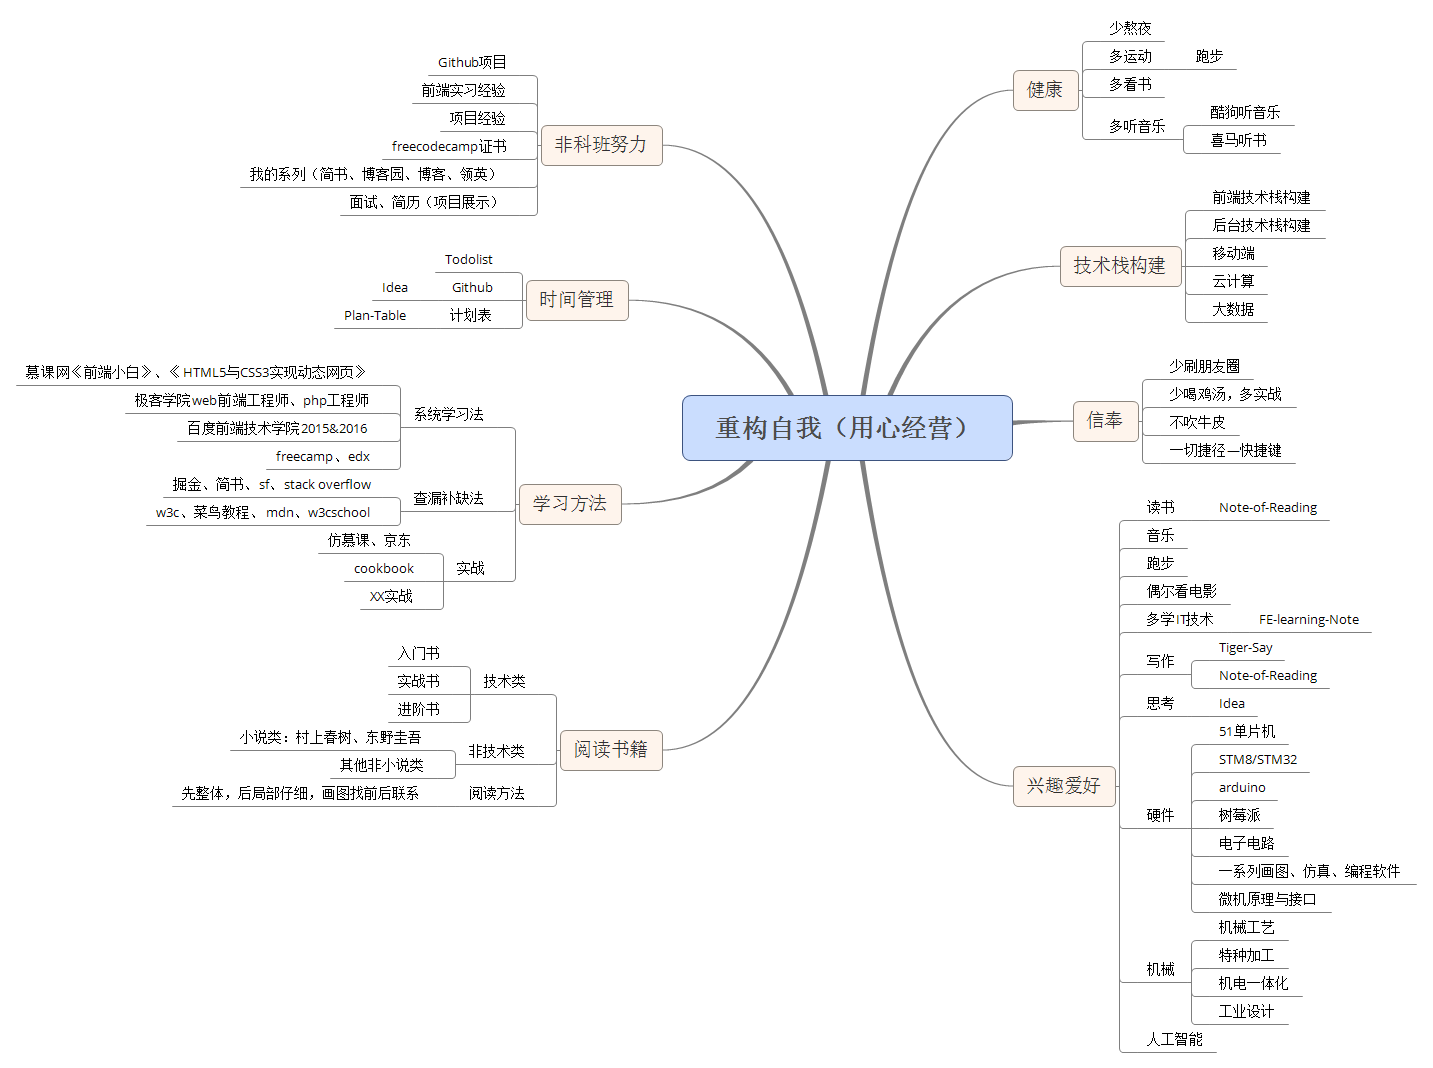
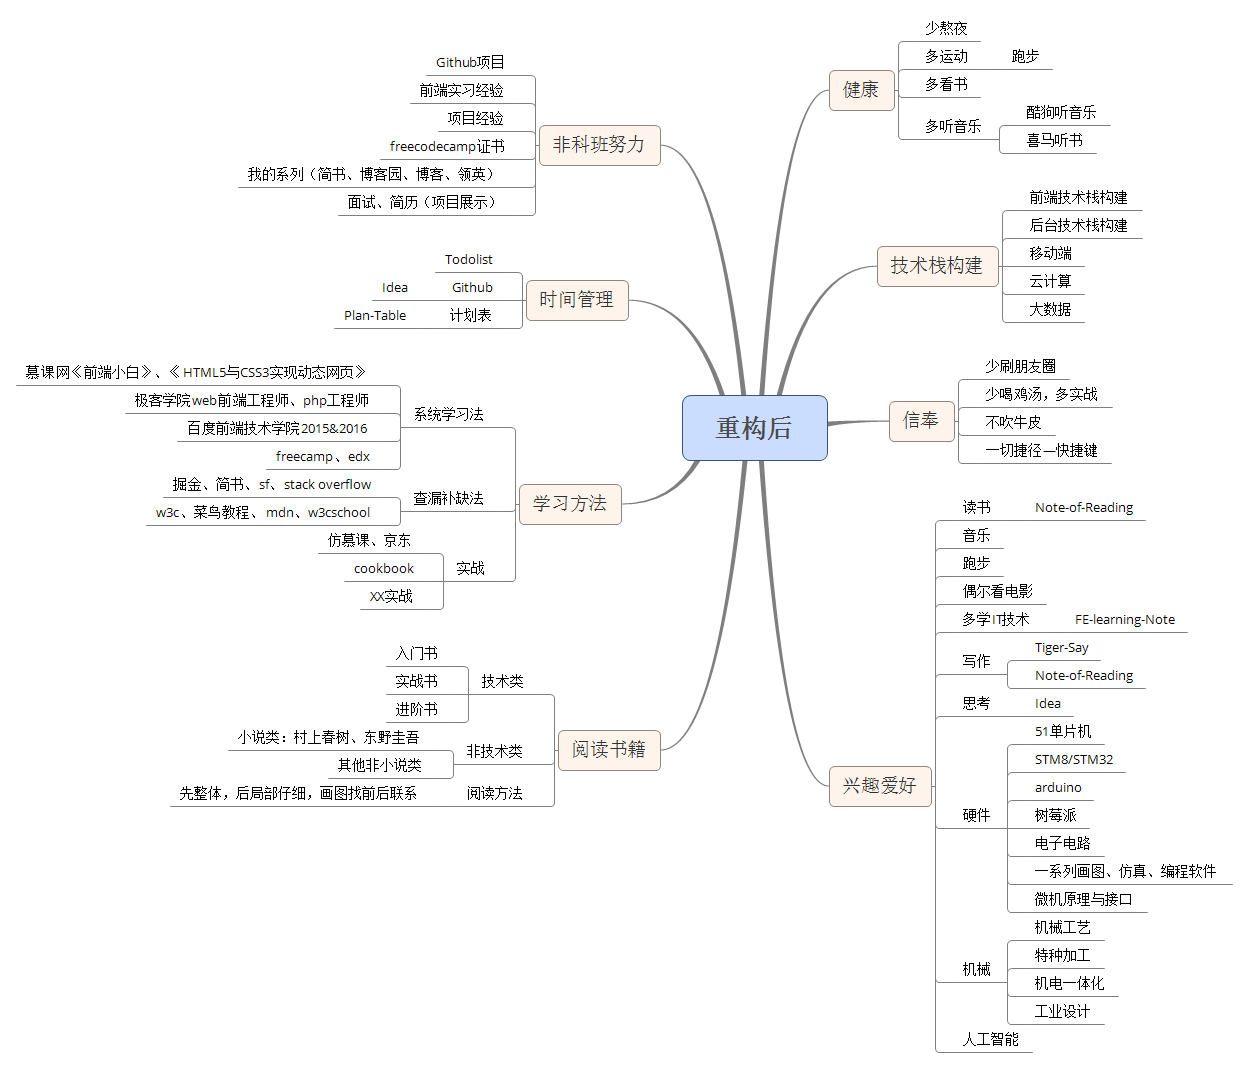
Site updated: 2017-09-21 14:12:38

diff --git a/2017/09/21/重构自我，用心经营/index.html b/2017/09/21/重构自我，用心经营/index.html
@@ -8,20 +8,20 @@
   <link rel="dns-prefetch" href="http://www.jomsou.cn">
   <title>重构自我，用心经营 | Jomsou&#39;s Blog</title>
   <meta name="viewport" content="width=device-width, initial-scale=1, maximum-scale=1">
-  <meta name="description" content="秋风起兮，枯叶缓缓落，咯吱一声又一声，静静地躺在树根处。等到快春天的时候，树就会长出新的枝叶。而这引起了我的思考，难道这不是在重构吗？是的，在我的眼里，万物都要依据一定的条件，进行重构。而我需要的是重构自我，用心经营。  重构 前面已提为什么要重构自我，不想赘述，下面是重构前的对比。">
+  <meta name="description" content="秋风起兮，枯叶缓缓落，咯吱一声又一声，静静地躺在树根处。等到快春天的时候，树就会长出新的枝叶。而这引起了我的思考，难道这不是在重构吗？是的，在我的眼里，万物都要依据一定的条件，进行重构。而我需要的是重构自我，用心经营。  重构 前面已提为什么要重构自我，不想赘述，下面是重构前后的对比。">
 <meta name="keywords" content="随笔">
 <meta property="og:type" content="article">
 <meta property="og:title" content="重构自我，用心经营">
 <meta property="og:url" content="http://www.jomsou.cn/2017/09/21/重构自我，用心经营/index.html">
 <meta property="og:site_name" content="Jomsou&#39;s Blog">
-<meta property="og:description" content="秋风起兮，枯叶缓缓落，咯吱一声又一声，静静地躺在树根处。等到快春天的时候，树就会长出新的枝叶。而这引起了我的思考，难道这不是在重构吗？是的，在我的眼里，万物都要依据一定的条件，进行重构。而我需要的是重构自我，用心经营。  重构 前面已提为什么要重构自我，不想赘述，下面是重构前的对比。">
+<meta property="og:description" content="秋风起兮，枯叶缓缓落，咯吱一声又一声，静静地躺在树根处。等到快春天的时候，树就会长出新的枝叶。而这引起了我的思考，难道这不是在重构吗？是的，在我的眼里，万物都要依据一定的条件，进行重构。而我需要的是重构自我，用心经营。  重构 前面已提为什么要重构自我，不想赘述，下面是重构前后的对比。">
 <meta property="og:image" content="http://www.jomsou.cn/img/rep/yq.png">
 <meta property="og:image" content="http://www.jomsou.cn/img/rep/cg.png">
 <meta property="og:image" content="http://www.jomsou.cn/img/rep/fe.png">
-<meta property="og:updated_time" content="2017-09-21T06:02:19.017Z">
+<meta property="og:updated_time" content="2017-09-21T06:12:00.314Z">
 <meta name="twitter:card" content="summary">
 <meta name="twitter:title" content="重构自我，用心经营">
-<meta name="twitter:description" content="秋风起兮，枯叶缓缓落，咯吱一声又一声，静静地躺在树根处。等到快春天的时候，树就会长出新的枝叶。而这引起了我的思考，难道这不是在重构吗？是的，在我的眼里，万物都要依据一定的条件，进行重构。而我需要的是重构自我，用心经营。  重构 前面已提为什么要重构自我，不想赘述，下面是重构前的对比。">
+<meta name="twitter:description" content="秋风起兮，枯叶缓缓落，咯吱一声又一声，静静地躺在树根处。等到快春天的时候，树就会长出新的枝叶。而这引起了我的思考，难道这不是在重构吗？是的，在我的眼里，万物都要依据一定的条件，进行重构。而我需要的是重构自我，用心经营。  重构 前面已提为什么要重构自我，不想赘述，下面是重构前后的对比。">
 <meta name="twitter:image" content="http://www.jomsou.cn/img/rep/yq.png">
   
     <link rel="alternative" href="/atom.xml" title="Jomsou&#39;s Blog" type="application/atom+xml">
@@ -212,7 +212,7 @@ var _hmt = _hmt || [];
 <p>秋风起兮，枯叶缓缓落，咯吱一声又一声，静静地躺在树根处。等到快春天的时候，树就会长出新的枝叶。而这引起了我的思考，难道这不是在重构吗？是的，在我的眼里，万物都要依据一定的条件，进行重构。而我需要的是重构自我，用心经营。</p>
 </blockquote>
 <h2 id="重构"><a href="#重构" class="headerlink" title="重构"></a>重构</h2><blockquote>
-<p>前面已提为什么要重构自我，不想赘述，下面是重构前的对比。</p>
+<p>前面已提为什么要重构自我，不想赘述，下面是重构前后的对比。</p>
 </blockquote>
 <a id="more"></a>
 <h3 id="Before"><a href="#Before" class="headerlink" title="Before"></a>Before</h3><p><img src="/img/rep/yq.png" alt=""></p>

diff --git a/index.html b/index.html
@@ -209,7 +209,7 @@ var _hmt = _hmt || [];
 <p>秋风起兮，枯叶缓缓落，咯吱一声又一声，静静地躺在树根处。等到快春天的时候，树就会长出新的枝叶。而这引起了我的思考，难道这不是在重构吗？是的，在我的眼里，万物都要依据一定的条件，进行重构。而我需要的是重构自我，用心经营。</p>
 </blockquote>
 <h2 id="重构"><a href="#重构" class="headerlink" title="重构"></a>重构</h2><blockquote>
-<p>前面已提为什么要重构自我，不想赘述，下面是重构前的对比。</p>
+<p>前面已提为什么要重构自我，不想赘述，下面是重构前后的对比。</p>
 </blockquote>
         
           
